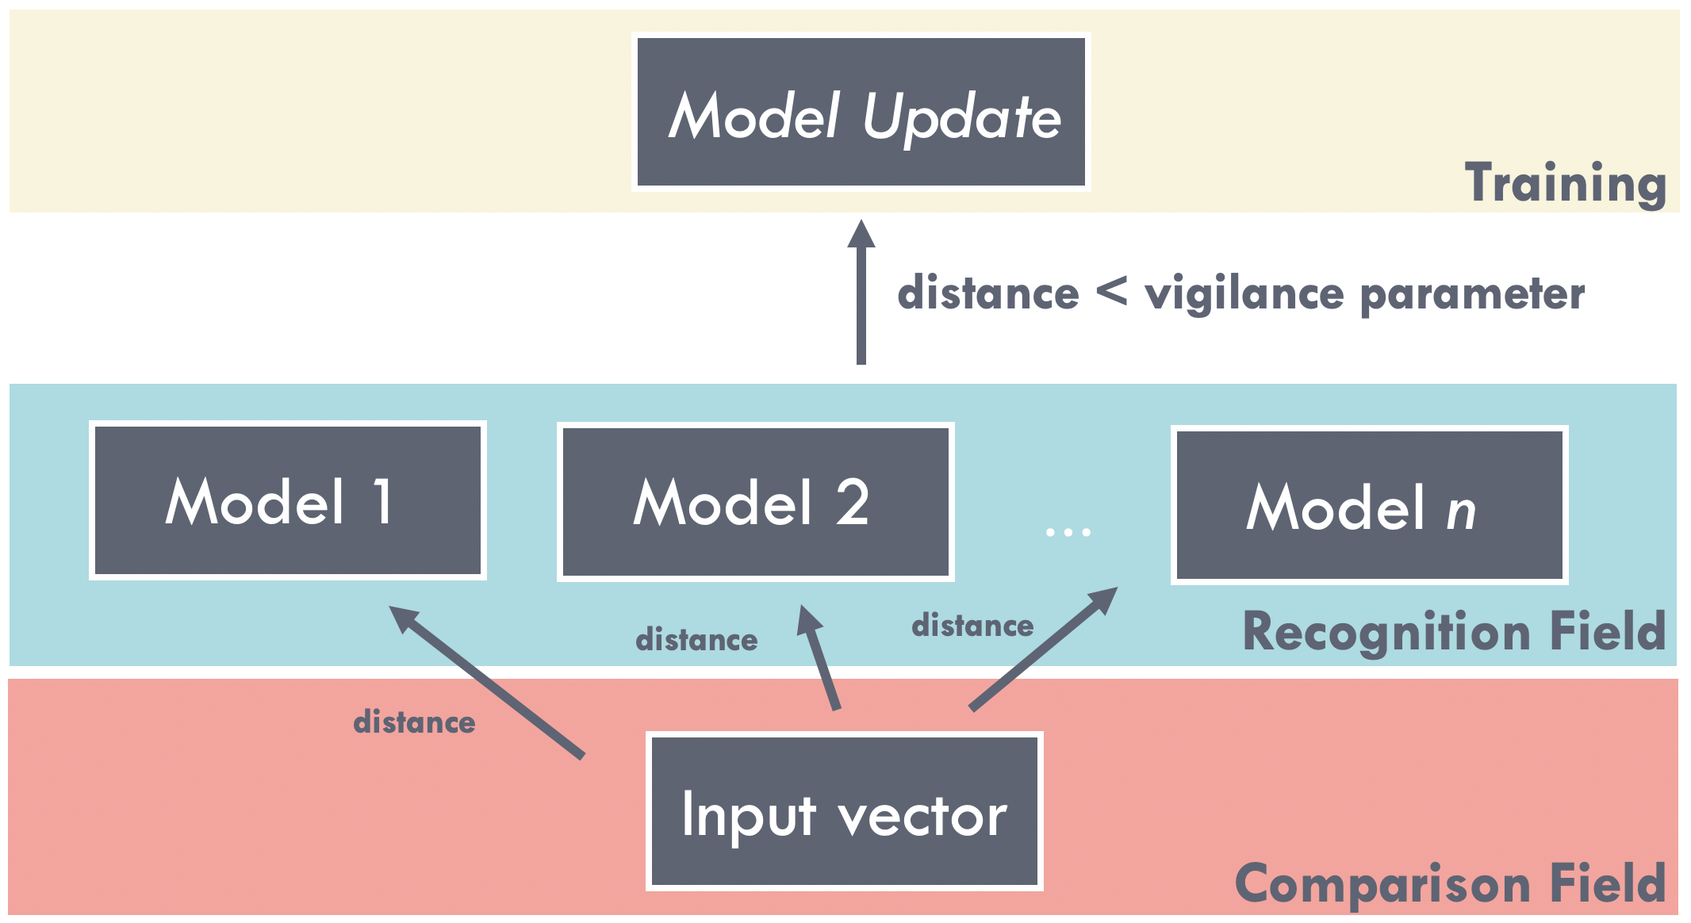
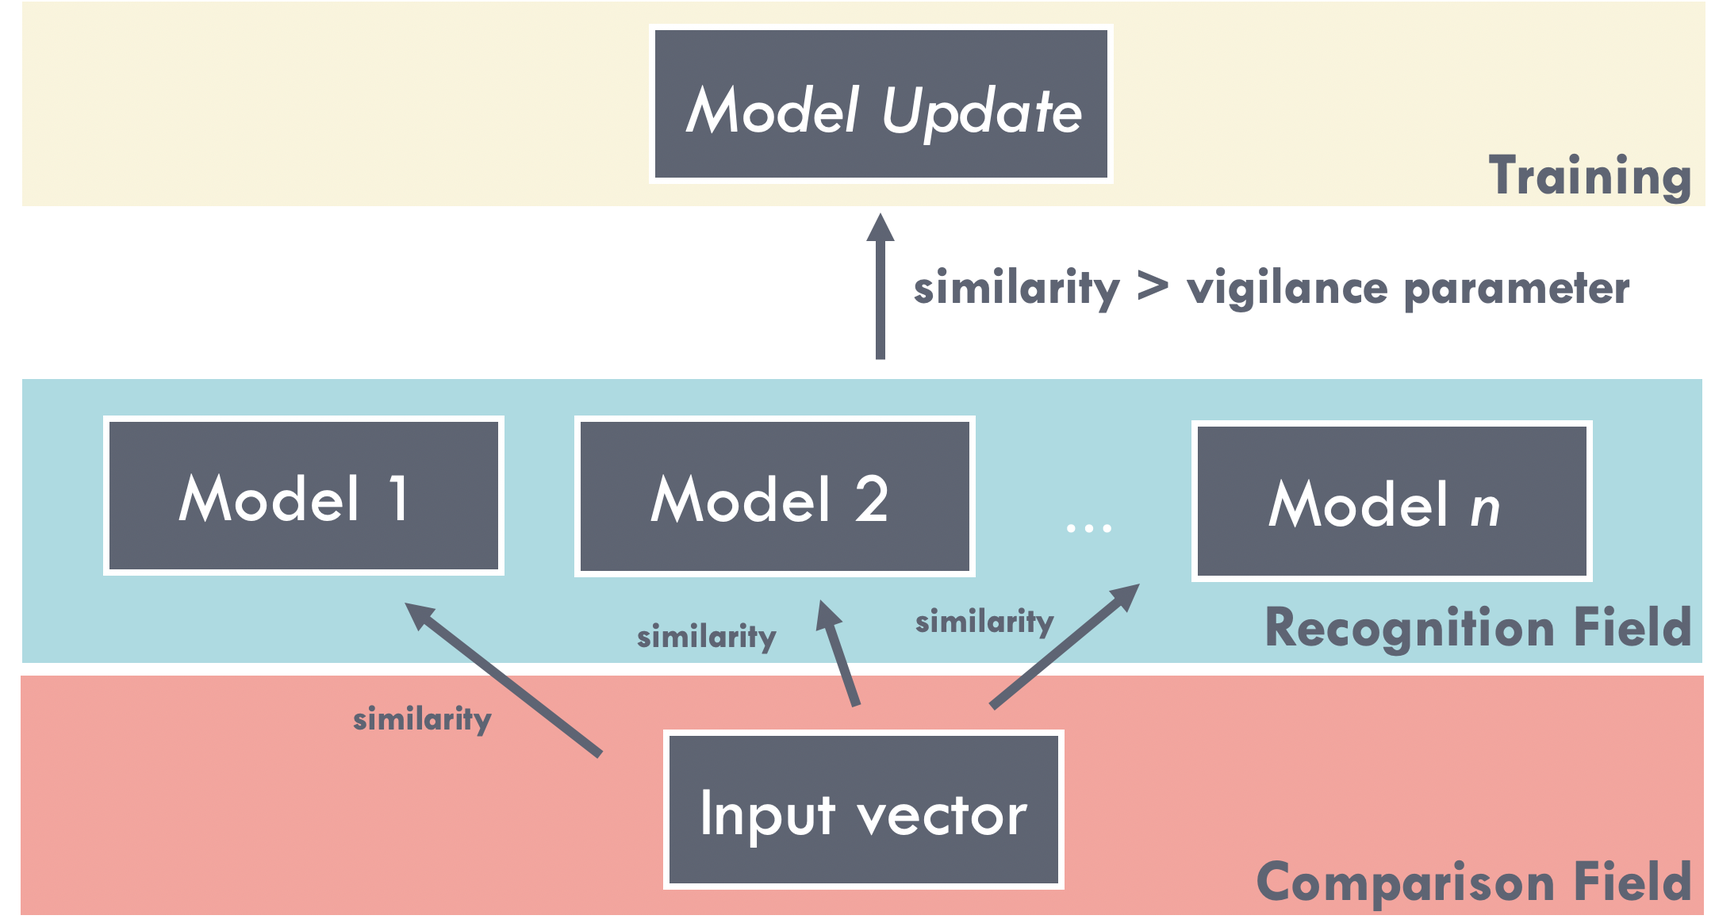
Updates from Overleaf

diff --git a/chapters/Chapter02:MachineLearningforPrediction.tex b/chapters/Chapter02:MachineLearningforPrediction.tex
@@ -38,9 +38,14 @@ Table \ref{tab:2MLApplications} shows some general machine learning applications
     \label{fig:02AICloud}
 \end{figure}
 
-The objective of this chapter was to convey ideas for implementing machine learning solutions catered towards the \textbf{process control} industry.  In this chapter, the first half consists of common data pre-processing techniques to handle common process control concerns and is visually described by the "Filter Data" box.  The second half contains machine learning methods (in order of difficulty) to handle different process control prediction problems ("Prediction" box in the above figure). To conclude this chapter, the prediction algorithms will be closed off with an adaptive modelling technique inspired by reinforcement learning and adaptive resonance theory. A brief analysis will also be provided to evaluate the ML models' "cheaper, more accurate, and online capability" claim. For validation purposes, the machine learning methods were implemented onto an industrial pipeline for prediction, monitoring, and optimization\footnote{This project was supported in part by Mitacs through the Mitacs Accelerate program and the algorithms went live as of May 7th, 2019.}\footnote{This chapter only contains the theory, application, and highlights. The detailed industrial project report can be found in Appendix A.}.
+The objective of this chapter was to convey ideas for implementing machine learning solutions catered towards the \textbf{process control} industry.  In this chapter, the first half consists of common data pre-processing techniques to handle common process control concerns and is visually described by the "Filter Data" box.  The second half contains machine learning methods (in order of difficulty) to handle different process control prediction problems ("Prediction" box in the above figure). To conclude this chapter, the prediction algorithms will be closed off with an adaptive modelling technique inspired by reinforcement learning and adaptive resonance theory. For validation purposes, the machine learning methods were implemented onto an industrial pipeline for prediction, monitoring, and optimization\footnote{This project was supported in part by Mitacs through the Mitacs Accelerate program and the algorithms went live as of May 7th, 2019.}\footnote{This chapter only contains the theory and application highlights. The detailed industrial project report can be found in Appendix A.}.
 
-The contributions of the author in this chapter...
+Contributions made in this chapter include:
+\begin{enumerate}
+    \item Effective data pre-processing techniques for the process industry
+    \item Catering machine learning prediction techniques to the process industry
+    \item An outlier-free, data efficient, adaptive modelling method for multi-modal operations
+\end{enumerate}
 
 \section{Data Pre-processing}
 Data pre-processing typically includes many steps starting with filtering by subject matter expertise, and then transitioning to common statistical methods.  For this section, only the filtering methods unique to process control will be discussed. Please refer to Appendix A for details regarding the other steps. Process control is typically concerned with multivariate time-series data plagued with noisy and/or unreliable sensor readings. Time delays are critical to successful prediction applications in process control. Furthermore, some processes may also have a variety of different operating regimes depending on downstream demand or ambient conditions.  In order to have successful prediction algorithms for process control, all of the above must be considered.
@@ -202,7 +207,7 @@ Incremental learning still falls short in terms of catastrophic interference (al
 
 The uniform sampling incremental supervised learning (USIS) algorithm was proposed to overcome this issue and to enhance data efficiency for adaptive ML techniques.  USIS is a combination of adaptive resonance theory, uniform sampling, and experience replay (from reinforcement learning theory), where each update step is outlier free, data is efficiently used many times, and data is uniformly sampled across the distribution of the model to prevent catastrophic interference.
 
-The simplified adaptive resonance theory (ART) architecture is shown in Figure \ref{fig:02art}. ART was originally proposed to prevent disrupting existing knowledge during learning of new knowledge.  In ART, the comparison field first allocates the input vector to the best match model in the recognition field based on a distance metric, $d$.  Then, the distance between the input vector and the closest matching model is compared to the vigilance parameter, $\nu$.  If $d < \nu$, the model weights will be adjusted using the new input vector.  Otherwise, the input vector is used to initiate a new model.  The vigilance parameter has significant influence on the overall system.  Intuitively, lower vigilance produces highly detailed memories (many specialized models), while higher vigilance creates generalized memories (fewer, generalized models)\footnote{Originally, ART uses a measure of similarity and not distance.  High similarity represents low distance; therefore, higher vigilance produces highly detailed memories while lower vigilance creates generalized memories, the opposite of distance.} \cite{art}.
+The simplified adaptive resonance theory (ART) architecture is shown in Figure \ref{fig:02art}. ART was originally proposed to prevent disrupting existing knowledge during learning of new knowledge.  In ART, the comparison field first allocates the input vector to the best match model in the recognition field based on a similarity metric, $s$.  Then, the similarity between the input vector and the closest matching model is compared to the vigilance parameter, $\nu$.  If $s > \nu$, the model weights will be adjusted using the new input vector.  Otherwise, the input vector is used to initiate a new model.  The vigilance parameter has significant influence on the overall system.  Intuitively, higher vigilance produces highly detailed memories (many specialized models), while lower vigilance creates generalized memories (fewer, generalized models) \cite{art}.
 
 \begin{figure}[h]
     \centering
@@ -219,18 +224,16 @@ By combining the advantages of the previous three topics, a new adaptive, outlie
 
 \subsubsection{USIS Algorithm}
 
-Figure \ref{fig:02USIS} shows the architecture for the USIS algorithm.  Initially, $n \geq 1$ models are present to model the system.  For input vectors in $n \geq 2$ systems, the distance $d$ between the input vector and the centroid of the data for each model is computed. This step is skipped for systems where $n = 1$ because only one $d$ is computed. The lowest $d$ is then compared to the vigilance parameter, $\nu$.  If $d \leq \nu$, the input vector will be added to the training archive (experience replay buffer) corresponding to the model.  Otherwise, the data point is transferred to the new model archive where data currently not belonging to any model is stored. In the new model archive, new models will be generated and added to the existing system of models after enough similar data is accumulated. Likewise, the training archives are used to incrementally update all models after a certain amount of data or time elapsed. During an update step, the archive data will be blended with additional uniformly sampled data from the historical archive (experience replay buffer) to avoid catastrophic interference. 
+Figure \ref{fig:02USIS} shows the key steps for the USIS algorithm.  Initially, $n \geq 1$ models are present to model the system.  For input vectors in $n \geq 2$ systems, the distance $d$ between the input vector and the centroid of the data for each model is computed. This step is skipped for systems where $n = 1$ because only one $d$ is computed. The lowest $d$ is then compared to the neglect parameter, $\eta$ (opposite of vigilance parameter, $\nu$).  If $d \leq \eta$, the input vector will be added to the training archive (experience replay buffer) corresponding to the model.  Otherwise, the data point is transferred to the new model archive where data currently not belonging to any model is stored. In the new model archive, new models will be generated and added to the existing system of models after enough similar data is accumulated. Likewise, the training archives are used to incrementally update all models after a certain amount of data or time elapsed. During an update step, the archive data will be blended with additional uniformly sampled data from the historical archive (experience replay buffer) to avoid catastrophic interference. 
 
 \begin{figure}
     \centering
     \includegraphics[width=\textwidth]{images/suncor/08IncrementalLearning.png}
-    \caption{Uniform Sampling Incremental Supervised learning architecture.}
+    \caption{A brief visualization of the USIS algorithm.}
     \label{fig:02USIS}
 \end{figure}
 
-To enhance clarity of each update step, the data storage structure of USIS is shown in Figure \ref{fig:02USISData}. Before an update, the bins of each model must be defined.  The bins are typically defined by dividing the distribution of the predicted variable.  Bins can be narrower around regimes with abundant data, and wider for regimes lacking data.  During an update step, all data from the training archive alongside some sampled data from the historical training archive are blended together and fed into the gradient descent step for model updates.  Typically in process control applications, systems tend to linger around certain set points for many time steps.  Given this characteristic, the data in the training archives, consisting of $m$ training examples, typically belong to the same bin.  To avoid catastrophic interference when learning on 
-
-After the updates, all training archives are emptied by transferring the data into the historical archives.  When the historical archives get sufficiently full, the oldest data (or memories) are deleted.
+To enhance clarity of each update step, the data storage structure of USIS is shown in Figure \ref{fig:02USISData}. Before an update, the bins of each model must be defined.  The bins are typically defined by dividing the distribution of the predicted variable.  Bins can be narrower around regimes with abundant data, and wider for regimes lacking data.  During an update step, all data from the training archive alongside some sampled data from the historical training archive are blended together and fed into the gradient descent step for model updates.  Typically in process control applications, systems tend to linger around certain set points for many time steps.  Given this characteristic, the data in the training archives, consisting of $m$ training examples, typically belong to the same bin.  To avoid catastrophic interference when learning on elongated periods of similar operating conditions, $m$ examples of data from each bin in the historical archive is also sampled and assimilated with the training data when performing update steps. After the updates, all training archives are emptied by transferring the data into the historical archives.  When the historical archives get sufficiently full, the oldest data (or memories) are deleted.
 
 \begin{figure}[h]
     \centering
@@ -239,13 +242,46 @@ After the updates, all training archives are emptied by transferring the data in
     \label{fig:02USISData}
 \end{figure}
 
-- Add effects of memory replay here for tuning of USIS.
-- Tuning parameters: size of replay buffer, size of each bin, vigilance parameter, distance metric, time/size of replay buffer before model update.
+The full USIS algorithm is shown in Figure \ref{fig:02USIS_Complete}.  There are five main tuning parameters of the USIS algorithm: i) when to update models; ii) bin size for each model; iii) neglect parameter; iv) distance metric; v) replay buffer size.
+
+\begin{itemize}
+    \item \textbf{i) Model Updates: } Common strategies for model updates are periodically, by example size, or when models exhibit large errors.  The first two are proactive methods, while the last is a reactive method.  In the periodically updating method, the models are automatically updated after a certain time has elapsed (e.g., update every 24 hours). Updates by example size refers to model updates after a certain amount of data is accumulated in the training archive. Only the model with adequate amounts of data is updated. For these two methods, there should not be a significant time gap between updates because updates may lead to excessive model changes otherwise.  Since this method is automated, significant model changes could potentially lead to sudden performance changes, jeopardizing production safety.  Model updating after large errors have incurred is the last method.  Here, the models are updated after an error threshold has been exceeded.  Compared to the previous methods where smooth update steps are performed, this method introduces significant changes to the model. Systems with highly noisy data and require inordinate amounts of manual data processing will benefit from this update style because completely automated updates may lead to model divergence.
+
+    \item \textbf{ii) Bin size: } The bin size of each model should be tuned so the important sections  of the predicted variable can be properly predicted for each model. Additionally, the bin can be narrower for sections where abundant data is available and wider for sections where data is sparse.
+    
+    \item \textbf{iii) Neglect parameter: } Neglect determines the specialization of each model.  High neglect creates fewer generalized models, while low neglect produces many specialized models.  For highly non-linear multi-modal systems, low neglect may be the preferred choice; however, the initial setup and cost of ownership for such a system could potentially be high if automated updates are not implemented/feasible. On the other hand, high neglect systems are cheaper to maintain due to the reduced number of models, but the accuracy may suffer.  Picking a proper neglect parameter represents the trade-off between accuracy and complexity.  A general rule of thumb for the neglect parameter would be the radius of the cluster.  For example, $\eta$ for a cluster identified using DBSCAN would be its $\epsilon$ value.
+    
+    \item \textbf{iv) Distance metric: } The Euclidean distance between the input vector and the historical data is the recommended choice; however, other distance metrics can be used for specialized applications.
+    
+    
+    \item \textbf{v) Replay buffer size: } The replay buffer size can also be tuned to adjust when old memories are no longer relevant (intuitively, forgetting older memories).  For processes where operating conditions are changing frequently, it would be beneficial to have smaller replay buffers to avoid learning on obsolete data.  Replay buffers can also have an adaptive size depending on the current prediction error as proposed in \cite{eff_of_er}; however, such a method is still embryonic and further exploration should be conducted before implementation.
+\end{itemize}
+
+\begin{figure}[h]
+    \centering
+    \includegraphics[width=\textwidth]{images/ch2/02USIS_Complete.jpeg}
+    \caption{The complete USIS architecture.}
+    \label{fig:02USIS_Complete}
+\end{figure}
 
 Uniform sampling in USIS can also be swapped out for importance sampling, where high error examples are prioritized for the next sampling cycle (motivation from \cite{prioritize_exp_replay}. In doing so, high error examples (biologically modelled as 'shocking' experiences) have higher probabilities of being recalled.  Intuitively, humans recall 'shocking' experiences more often. The method enhances accuracy in many reinforcement learning applications \cite{dqn, er1, er2}, although, such a method may prioritize noisy, near-outlier data points in process control applications and introduce model divergence.
 
-as proposed in \cite{eff_of_er}.
+\section{Discussion: Cheaper, More Accurate, and Adaptive?}
 
-\section{Application onto an Industrial Pipeline}
+Machine learning has promised cheaper, more accurate, and adaptive solutions for industries around the world.  However, applying ML solutions naively into the process control industry yields no significant value due to various unique factors in process control data.  So far in this chapter, different data pre-processing methods catered towards the process industry were introduced.  General ML methods and their applicability were correlated to the process control industry. By innovatively combining parts of separate algorithms, a new algorithm catered towards the process industry, USIS, was also introduced. USIS is an adaptive, outlier-free, model structure that can be used to model a process with many operating conditions while avoiding catastrophic interference. But are these solutions truly cheaper, more accurate, and adaptive? 
 
-\section{Conclusion: Cheaper, More Accurate, and Adaptive?}
+The comparison between ML prediction solutions and traditional methods is shown below for common areas where ML is implemented today:
+
+\begin{itemize}
+    \item \textbf{Cheaper: } ML soft sensors will definitely be cheaper for difficult-to-measure process variables where lab test must be conducted.  Conducting lab measurements may cost up to hundreds of thousands per year if frequent measurements are required.  Initial cost for soft sensors may be high because a ML expert must collaborate with process operators to first develop the soft sensor(s); however, on-going costs for this application is minuscule.  Soft sensors for prediction of variables that are difficult to measure are definitely cheaper than buying a highly advanced physical sensor.  Lastly, prediction applications used for operator training or forecasting should be significantly cheaper compared to having a senior operator on shift explicitly to train a new operator or hiring a group of subject matter experts to forecast future production possibilities.
+    \item \textbf{More Accurate: } Soft sensors used to predict lab measurements could yield high accuracy, but will never exceed lab measurements.  This is because lab data is used to train the soft sensor; hence, serving as a performance ceiling.  For soft sensors used to predict for difficult to measure process variables, the accuracy will depend on the quality of the data used to build the soft sensor.  Additionally, the accuracy vary from application to application.  For predicting for heights in a primary separation vessel using cameras and the sight glass, the accuracy can be extremely high.  On the other hand, predicting the density of a crude given highly noisy readings and poor input data may be nearly impossible.
+    \item \textbf{Adaptive: } The adaptability factor of ML algorithms is purely dependent on available feedback.  For applications where immediate feedback is available, such as predicting for a continuously measured output variable, adaptability is trivial.  However, ML solutions cannot adapt for tasks where no feedback exists.  One example of a non-adaptive ML application would be soft sensors for prediction of lab measured process variables. If no additional lab measurements are taken after the soft sensor is live, it will never adapt.  Therefore, it is good practice to continue obtaining lab measurements seldomly to evaluate the soft sensor performance. For tasks requiring adaptation, ML solutions should be the preferred choice because human operators would have a hard time remembering all the historical data.
+\end{itemize}
+
+To summarize, ML prediction applications are generally cheaper compared to their traditional counterparts.  This is simply because applications that requires ML are typically expensive and are solved poorly using traditional approaches to begin with.  In terms of accuracy, ML solutions would not exceed the performance of a lab tested process variable; however, may surpass accuracy given representative data sets or unique applications.  Lastly, ML solutions can only adapt if proper feedback is available for the algorithm. 
+
+\section{Highlights of ML Application onto a Pipeline}
+
+The methods and algorithms in this chapter were applied onto an industrial pipeline.  The highlights of the implementation will be shown in this section.  For a detailed project report, please refer to Appendix A.
+
+Pipelines are critical assets for the transport of fluids safely and efficiently across long distances. Fluids include petroleum products, clean water, natural gas, sewage, and even beer. In Canada, over 97\% of petroleum products are shipped by pipeline alone.  Due to the mission critical nature of pipelines on society's success, ensuring its reliability and efficiency has global-scale impact.  Typical pipelines may contain hundreds of digital sensors littered across the pipeline.  Such information overload may be overwhelming for humans; however, ML methods benefit greatly from the abundance of data.  Here, an opportunity was discovered where ML methods can be applied to greatly increase the robustness and efficiency of the pipeline.  For phase one of the project, ML prediction models were built to create a digital twin of the pipeline for operator training programs and future optimization purposes.

diff --git a/chapters/Chapter04:MachineLearningforControl.tex b/chapters/Chapter04:MachineLearningforControl.tex
@@ -7,6 +7,9 @@
 % 2. Continuous control using deep reinforcement learning
 % 3. Comparison of results with MPC on simple systems
 % 4. Fault tolerant RL vs. traditional methods
+% 5. Control of a wastewater treatment process
+% 6. Optimization
+%  - Adaptive using model updates
 % 
 %%%%%%%%%%%%%%%%%%%%%%%%%%%%%%%%%%%%%%%%%%%%%%%%%%%%%%%%%%%%%%%%%%%%%%%%%%%%%%%%%%%
 
@@ -636,6 +639,12 @@ Requires offline training        & Yes & No \\ \hline
     \label{tab:ftcAll}
 \end{table}
 
-
 \section{Concluding Remarks on the FTCS}
 Eventually, all process equipment will reach the end of their operational lifetime and fail.  Such failures are difficult to predict and may cause catastrophic damage; therefore, it is advantageous to proactively manage risks using a fault-tolerant control system (FTCS).  This study proposed a general FTCS for continuous MIMO systems using reinforcement learning (RL). The FTCS was placed in the supervisory control layer and gave operating recommendations to process control systems. The FTCS was simulated distillation tower, showing its fault tolerant nature, robustness to uncertainties, and disturbance rejection capabilities all while being adaptive. The system was also evaluated from an industrial implementation perspective and compared to traditional optimal control methods similar to RL.  Unsurprisingly, MPC was found to be the superior method if a perfect model was provided and sufficient computational time was given. However, MPC falls short during scenarios with model plant mismatch, or if the controller is poorly tuned. RL's performance is only slightly worse than MPC, and is robust to model plant mismatch due to its \textit{model-free} nature and velocity implementation style. Ultimately, RL may be the preferred method in an industrial environment where hardware is lacking, engineers being under time pressure to create solutions, and/or fast computational time is necessary.
+
+\section{Discussion: Cheaper, More Accurate, and Adaptive?}
+\begin{itemize}
+    \item \textbf{Cheaper: } training new operator - Training new operators - the first 6 months.
+    \item \textbf{More Accurate: } aa
+    \item \textbf{Adaptive: } aa
+\end{itemize}

diff --git a/main.tex b/main.tex
@@ -139,7 +139,7 @@ And finally, to the unsung heroes of the machine learning community.  I would li
 \pagenumbering{arabic}
 \input{chapters/Chapter01:Introduction.tex}
 
-\chapter{Machine Learning for Predictive Applications}
+\chapter{Machine Learning for Prediction Applications}
 \input{chapters/Chapter02:MachineLearningforPrediction.tex}
 
 % \chapter{Machine Learning for Process Monitoring}

diff --git a/chapters/Chapter03:MachineLearningforMonitoring.tex b/chapters/Chapter03:MachineLearningforMonitoring.tex
@@ -5,8 +5,6 @@
 %  - Adaptive using classifier updates
 % 2. Alarm management
 %  - Adaptive using RL
-% 3. Optimization
-%  - Adaptive using model updates
 % 
 %%%%%%%%%%%%%%%%%%%%%%%%%%%%%%%%%%%%%%%%%%%%%%%%%%%%%%%%%%%%%%%%%%%%%%%%%%%%%%%%%%%
 
